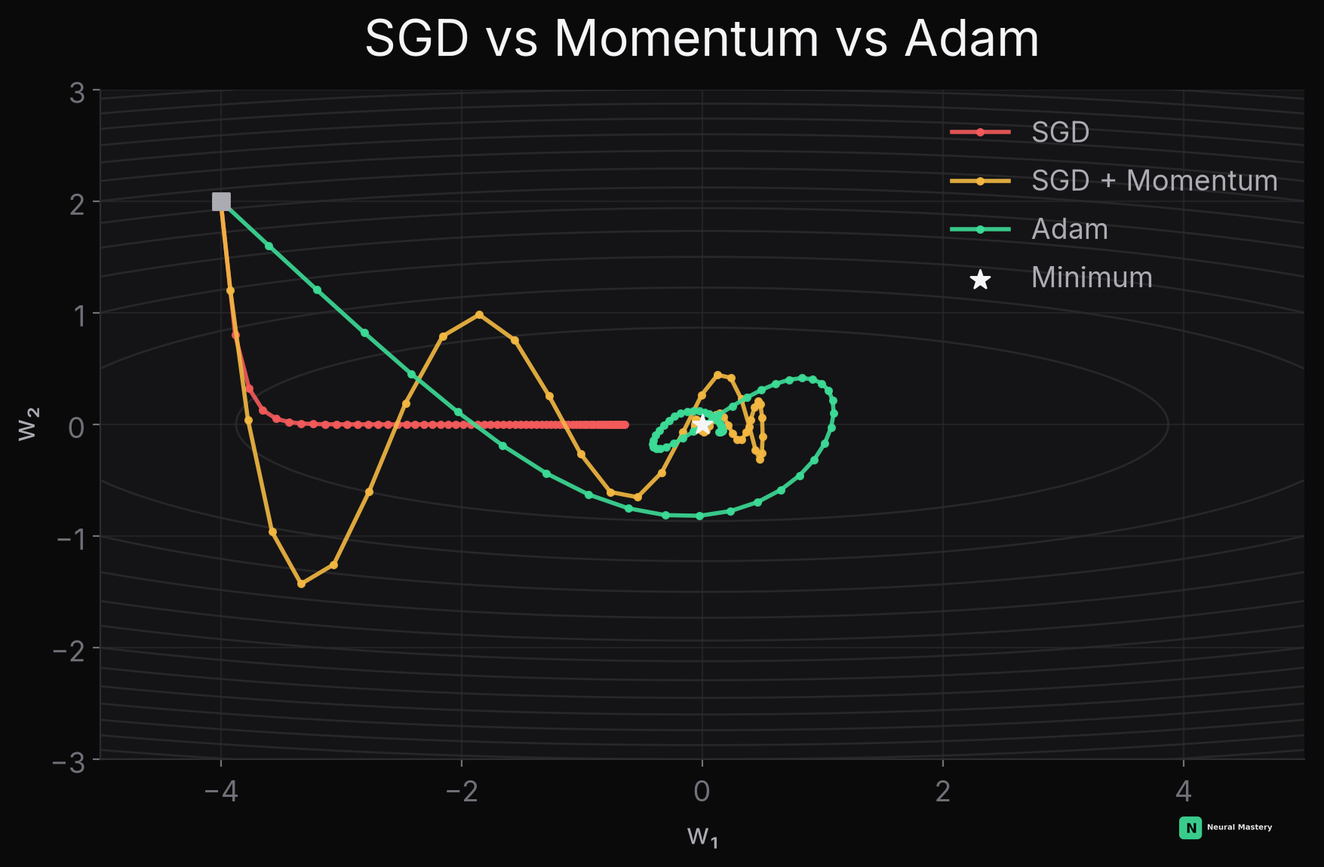
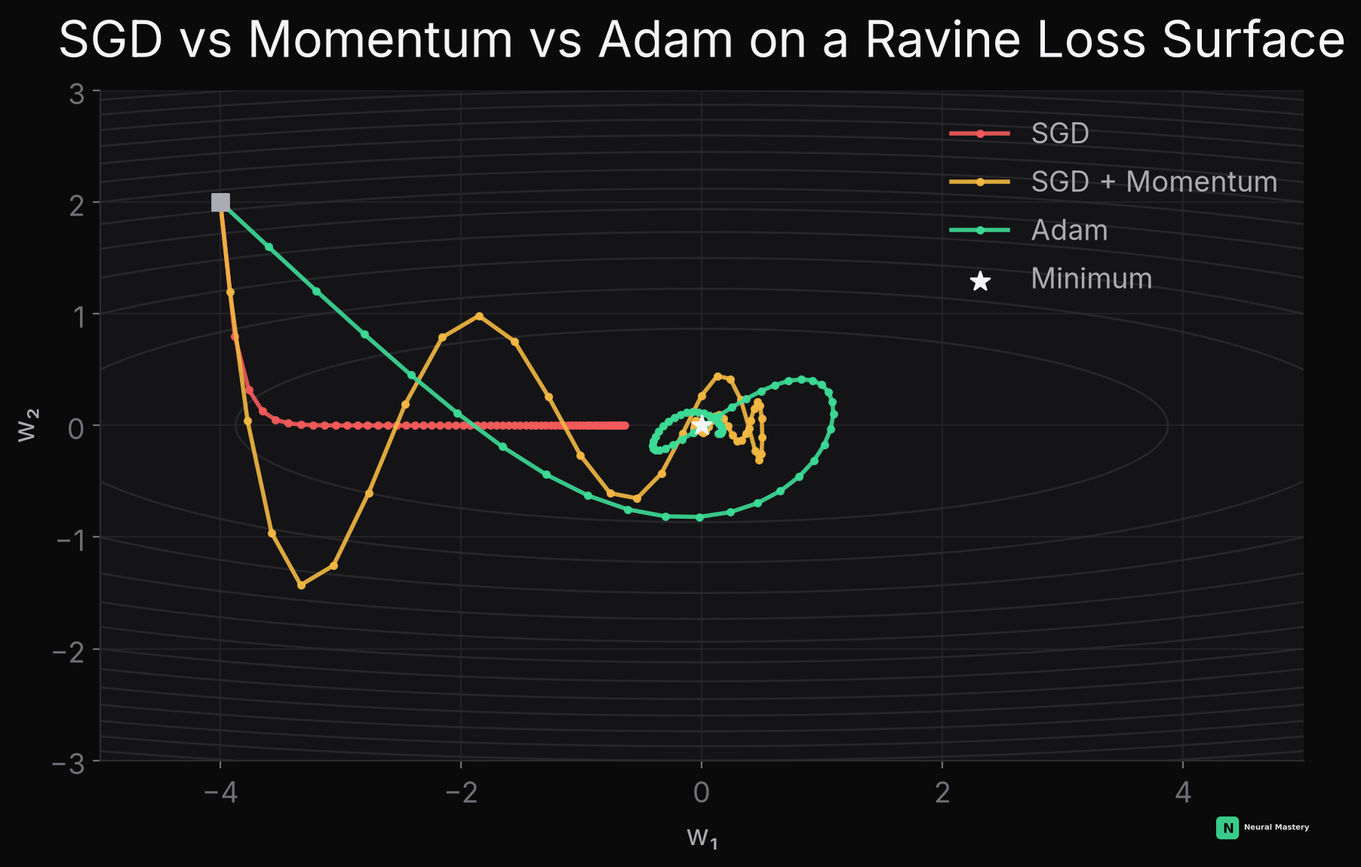
Add tree-based model family: Decision Trees through XGBoost/LightGBM/CatBoost
Four deep-dive pages at Linear Regression's depth:
- Decision Trees: Gini/entropy split criteria, the recursive
  partitioning algorithm, and why the decision boundary is a
  staircase (contrasted visually with logistic regression's line)
- Random Forest & Extra Trees: the variance-reduction math behind
  bagging, why feature randomness decorrelates trees, OOB error
- Boosting: AdaBoost's reweighting mechanism and why gradient
  boosting is literally gradient descent in function space
- XGBoost/LightGBM/CatBoost: what actually differs between the three
  production implementations and when to reach for which

Also updates optimizer-trajectories.png with its full (previously
clipped) title.

diff --git a/docs/machine-learning/xgboost-lightgbm-catboost.md b/docs/machine-learning/xgboost-lightgbm-catboost.md
@@ -1,0 +1,54 @@
+---
+sidebar_position: 5.4
+---
+
+# XGBoost, LightGBM & CatBoost, In Full Depth
+
+[Gradient Boosting](./boosting.md) is an algorithm. XGBoost, LightGBM, and CatBoost are three separate, highly-engineered *implementations* of it — each making different systems and algorithmic tradeoffs, and each dominant in different situations. Together, they're the reason gradient boosting is still the strongest off-the-shelf method for tabular data, even in the deep learning era.
+
+## XGBoost (eXtreme Gradient Boosting)
+
+The implementation that made gradient boosting a Kaggle-competition staple. Its core additions beyond [vanilla gradient boosting](./boosting.md#gradient-boosting-the-general-framework):
+
+- **Regularized objective**: adds an explicit penalty on tree complexity directly into the loss being optimized — $\Omega(f) = \gamma T + \frac{1}{2}\lambda\sum w_j^2$, where $T$ is the number of leaves and $w_j$ are leaf output values. This is [L2 regularization](./ridge-regression.md#the-ridge-cost-function) applied to leaf weights, plus a penalty per leaf — controlling overfitting directly in the objective rather than only through hyperparameter limits.
+- **Second-order optimization**: instead of fitting trees to just the gradient (first derivative) of the loss, XGBoost uses a second-order (Newton's method style) approximation — using both the gradient *and* the Hessian (second derivative, see [Calculus & Optimization](../mathematics-for-ai/calculus-optimization.md)) to choose splits and leaf values more precisely, converging in fewer rounds.
+- **Built-in handling of missing values**: learns, per split, which direction (left or right) missing values should default to, rather than requiring imputation beforehand.
+- **Systems engineering**: parallelized split-finding (evaluate candidate splits across features simultaneously), cache-aware memory access, and out-of-core computation for datasets too large for memory — a large fraction of XGBoost's real-world speed advantage is pure engineering, not algorithmic novelty.
+
+## LightGBM (Light Gradient Boosting Machine)
+
+Built for speed and scale, with two specific algorithmic innovations:
+
+- **Leaf-wise (best-first) tree growth**: standard tree growth (including XGBoost's default) is *level-wise* — grow every leaf at the current depth before going deeper. LightGBM instead always splits whichever single leaf would reduce loss the most, regardless of depth — often reaches lower loss with fewer splits, at the cost of trees that can grow unbalanced and overfit more easily on small datasets (mitigated with a `max_depth` cap in practice).
+- **Histogram-based splitting**: instead of considering every unique feature value as a candidate threshold (expensive), bucket continuous features into a fixed number of histogram bins upfront, and only search over bin boundaries — dramatically fewer candidate splits to evaluate, at a small, usually negligible cost in split quality.
+- **GOSS (Gradient-based One-Side Sampling)**: examples with small gradients are already well-fit by the ensemble so far and contribute little new information — GOSS keeps *all* examples with large gradients but only a random sample of small-gradient examples (reweighted to stay unbiased), cutting the effective dataset size per round without a proportional accuracy loss.
+- **EFB (Exclusive Feature Bundling)**: many real-world features (especially one-hot encoded categoricals) are sparse and rarely nonzero simultaneously — LightGBM bundles such mutually-exclusive features together into one, reducing the effective feature count without losing information.
+
+The net effect: LightGBM is typically the fastest of the three on large datasets, especially with many features.
+
+## CatBoost (Categorical Boosting)
+
+Built specifically to handle **categorical features** well, without manual preprocessing:
+
+- **Native categorical handling**: instead of requiring one-hot or manual target encoding beforehand, CatBoost encodes categories using an **ordered target statistic** — computing each category's average target value *only from examples that came before it* in a random permutation of the data, specifically to avoid target leakage (using an example's own label to help encode its own feature, which would leak information and cause overfitting).
+- **Ordered boosting**: applies a similar "only use data that came before, in a random order" principle to the boosting process itself, not just categorical encoding — reduces a subtle overfitting bias present in standard gradient boosting where every tree indirectly sees the same examples' residuals it will later be evaluated on.
+- **Symmetric (oblivious) trees**: every node at the same depth uses the *same* split condition across the whole tree — less flexible than XGBoost/LightGBM's trees, but faster to evaluate at inference time and provides implicit regularization.
+
+CatBoost typically needs the least manual feature engineering of the three, specifically when a dataset has many categorical columns.
+
+## Choosing Between Them
+
+| | XGBoost | LightGBM | CatBoost |
+|---|---|---|---|
+| Best for | General-purpose, well-understood, huge community | Very large datasets, speed-critical | Heavy categorical features, less tuning needed |
+| Tree growth | Level-wise (default) | Leaf-wise | Symmetric/oblivious |
+| Categorical features | Manual encoding needed | Some native support | Best native support |
+| Typical weakness | Slower than LightGBM at scale | Can overfit small datasets (leaf-wise growth) | Slower training than the other two |
+
+**In practice**: all three usually land within a small margin of each other on a given tabular problem after proper tuning — the differences above matter more for *training speed*, *ease of use with a specific data type*, and *robustness to less tuning*, than for a large gap in best-achievable accuracy. Trying more than one and comparing on your actual validation set (see [Model Evaluation & Metrics](./model-evaluation-metrics.md)) is standard practice, not a sign that you picked wrong the first time.
+
+## When Gradient Boosting Beats Deep Learning
+
+For **tabular data specifically** (rows and columns of heterogeneous features — not images, text, or audio), gradient-boosted trees still routinely match or beat deep neural networks, for a few structural reasons: trees naturally handle mixed feature types and missing values without preprocessing, don't need large amounts of data to avoid overfitting the way deep nets do, and don't require the architecture search that gets neural nets their edge on unstructured data (see [Deep Learning](../deep-learning/roadmap.md)). This is precisely why XGBoost/LightGBM/CatBoost remain the default first choice for tabular ML problems, even as deep learning dominates vision, language, and audio.
+
+This completes the tree-based model family: [Decision Tree](./decision-tree.md) → [Random Forest & Extra Trees](./random-forest.md) → [Boosting](./boosting.md) → XGBoost/LightGBM/CatBoost. Next: [Support Vector Machines](./supervised-learning.md#support-vector-machines) and the other margin-based and instance-based classifiers.

diff --git a/docs/machine-learning/boosting.md b/docs/machine-learning/boosting.md
@@ -1,0 +1,81 @@
+---
+sidebar_position: 5.3
+---
+
+# Boosting: AdaBoost & Gradient Boosting, In Full Depth
+
+[Random Forest](./random-forest.md) builds many trees **independently and in parallel**, then averages them to reduce variance. Boosting builds trees **sequentially**, where each new tree is trained specifically to fix the previous ensemble's mistakes — trading Random Forest's variance-reduction strategy for a bias-reduction strategy.
+
+## Bagging vs. Boosting, Precisely
+
+- **Bagging** (Random Forest): parallel, independent trees on resampled data, averaged. Reduces **variance**. Individual trees are usually grown deep (low bias, high variance) since averaging handles the variance.
+- **Boosting**: sequential trees, each correcting the ensemble-so-far's errors. Reduces **bias**. Individual trees are usually shallow — "weak learners," often just a few splits deep — since the sequential correction process handles building up accuracy over many rounds.
+
+## AdaBoost (Adaptive Boosting)
+
+The original boosting algorithm. The core mechanism: **reweight the training examples** after each round, increasing the weight of examples the ensemble-so-far got wrong, so the *next* weak learner is forced to focus on exactly those hard cases.
+
+1. Start with equal weight on every training example: $w_i = 1/n$.
+2. Train a weak learner (commonly a "stump" — a decision tree of depth 1) on the weighted data.
+3. Compute the weak learner's weighted error rate $\epsilon$, and its voting weight $\alpha = \frac{1}{2}\ln\left(\frac{1-\epsilon}{\epsilon}\right)$ — a learner that does better than random gets a positive $\alpha$ (more say in the final vote); a learner near 50% error gets $\alpha \approx 0$ (barely counted).
+4. Update example weights: increase weight on misclassified examples by a factor of $e^{\alpha}$, decrease correctly-classified examples' weight by $e^{-\alpha}$, then renormalize so weights sum to 1.
+5. Repeat for $T$ rounds. Final prediction: a weighted vote, $\text{sign}\left(\sum_t \alpha_t h_t(x)\right)$, across all $T$ weak learners.
+
+**The intuition, directly from the weight update**: examples the ensemble keeps getting wrong accumulate more and more weight round after round, until some weak learner is forced to get them right just to achieve reasonable weighted error — the ensemble's "attention" is adaptively redirected toward its own current weaknesses.
+
+## Gradient Boosting: The General Framework
+
+AdaBoost reweights examples. **Gradient Boosting** generalizes the same "sequentially correct mistakes" idea to work with *any* differentiable loss function (see [Loss Functions](../deep-learning/loss-functions.md)), by fitting each new tree to the **residual gradient** of the loss, not to reweighted labels.
+
+For squared error specifically (regression), the algorithm becomes remarkably intuitive:
+
+1. Start with a constant prediction $F_0(x) = \bar{y}$ (the mean target).
+2. Compute the **residuals**: $r_i = y_i - F_{t-1}(x_i)$ — exactly the [residuals from Linear Regression](./linear-regression.md#8-assumptions-behind-linear-regression), just computed against the current ensemble instead of a single linear fit.
+3. Train a new (shallow) tree to predict these residuals directly.
+4. Update the ensemble: $F_t(x) = F_{t-1}(x) + \eta \cdot h_t(x)$, where $\eta$ is a small learning rate (shrinking each tree's contribution — see [Calculus & Optimization](../mathematics-for-ai/calculus-optimization.md#gradient-descent-and-its-variants)) and $h_t$ is the newly trained tree.
+5. Repeat for $T$ rounds.
+
+**Why "gradient" boosting specifically**: for squared-error loss, the residual $y_i - F_{t-1}(x_i)$ is *exactly* the negative gradient of $\frac{1}{2}(y_i - F(x_i))^2$ with respect to $F(x_i)$. Fitting a tree to residuals is, precisely, taking a gradient descent step in **function space** — instead of updating a fixed set of weights $\mathbf{w}$ (as in [Linear Regression](./linear-regression.md#6-gradient-descent)), each round adds an entire new function (tree) that points the whole ensemble further downhill on the loss surface. For other losses (log-loss for classification, etc.), the "residual" generalizes to that loss's actual negative gradient rather than literally $y - \hat{y}$.
+
+## Key Hyperparameters
+
+- **Number of trees ($T$)**: too few underfits; too many starts overfitting (unlike Random Forest, boosting *can* overfit by adding more trees, since each one is chasing the training set's remaining errors specifically).
+- **Learning rate ($\eta$)**: smaller values need more trees but generalize better — the classic tradeoff, directly analogous to [gradient descent's learning rate](../mathematics-for-ai/calculus-optimization.md#gradient-descent-and-its-variants).
+- **Tree depth**: kept shallow (often depth 3-8) — deep trees per round tend to overfit fast in a sequential, error-correcting setup.
+
+## AdaBoost vs. Gradient Boosting
+
+| | AdaBoost | Gradient Boosting |
+|---|---|---|
+| Corrects mistakes via | Reweighting examples | Fitting to the loss gradient (residuals) |
+| Loss function | Exponential loss (implicitly) | Any differentiable loss — flexible |
+| Weak learner | Usually depth-1 stumps | Usually shallow trees (depth 3-8) |
+| Sensitive to outliers | Very (outliers get reweighted up repeatedly) | Less, depending on loss choice (e.g. Huber — see [Loss Functions](../deep-learning/loss-functions.md#regression-losses)) |
+
+Gradient Boosting's flexibility and generally stronger empirical performance are why it — not AdaBoost — became the basis for the modern, dominant implementations: [XGBoost, LightGBM & CatBoost](./xgboost-lightgbm-catboost.md).
+
+## Minimal Implementation
+
+Gradient boosting for regression, matching the algorithm above exactly:
+
+```python
+import numpy as np
+
+def fit_gradient_boosting(X, y, tree_fit_fn, n_trees=100, lr=0.1):
+    F = np.full(len(y), y.mean())  # F_0: constant prediction
+    trees = []
+    for _ in range(n_trees):
+        residuals = y - F              # negative gradient of squared error
+        tree = tree_fit_fn(X, residuals)  # fit a shallow tree to residuals
+        F = F + lr * tree.predict(X)
+        trees.append(tree)
+    return trees, y.mean()
+
+def predict_gradient_boosting(X, trees, base, lr=0.1):
+    F = np.full(X.shape[0], base)
+    for tree in trees:
+        F += lr * tree.predict(X)
+    return F
+```
+
+Next: [XGBoost, LightGBM & CatBoost](./xgboost-lightgbm-catboost.md) — the production-grade, highly optimized implementations of this exact algorithm that dominate tabular ML today.

diff --git a/docs/machine-learning/decision-tree.md b/docs/machine-learning/decision-tree.md
@@ -1,0 +1,90 @@
+---
+sidebar_position: 5.1
+---
+
+# Decision Trees, In Full Depth
+
+Every model covered so far — [Linear](./linear-regression.md), [Ridge/Lasso](./ridge-regression.md), [Logistic Regression](./logistic-regression.md) — draws a straight (or smoothly curved) boundary through feature space. A decision tree draws something completely different: a sequence of yes/no questions, splitting the data into rectangular regions.
+
+## What Is a Decision Tree?
+
+A tree is a nested set of if/else rules learned directly from data, ending in a prediction:
+
+![A depth-2 decision tree asking sequential yes/no questions](./img/tree-structure.png)
+
+Each internal node asks a single-feature question ("Hours Studied > 5?"), each branch is an answer, and each leaf is a prediction. To predict for a new example, walk down from the root, answering each question, until reaching a leaf.
+
+## Why the Boundary Looks Like a Staircase
+
+Because every split tests exactly one feature against a threshold, the resulting decision regions are always **axis-aligned rectangles** — never diagonal, never curved:
+
+![Decision tree decision regions — an axis-aligned staircase boundary, contrasted with logistic regression's single straight line](./img/tree-decision-regions.png)
+
+Compare this directly to [Logistic Regression's single straight boundary](./logistic-regression.md#the-decision-boundary). A tree can carve out *any* shape given enough splits (it's far more flexible), but that flexibility is exactly why trees overfit so easily — a deep enough tree can wall off every individual training point into its own tiny region, memorizing noise rather than learning a real pattern.
+
+## How a Split Is Chosen
+
+At each node, the tree tries every feature and every possible threshold, and picks whichever split makes the resulting two groups **most pure** — as unmixed in class labels as possible.
+
+**Gini Impurity** (classification): $G = 1 - \sum_{c} p_c^2$, where $p_c$ is the fraction of examples in class $c$ at that node. $G=0$ means perfectly pure (one class only); $G$ is maximized when classes are evenly mixed. A split is scored by the *weighted average* Gini of its two resulting children — lower is better.
+
+**Entropy / Information Gain** (the alternative criterion): $H = -\sum_c p_c \log_2 p_c$ — the same [entropy](../mathematics-for-ai/probability-statistics.md#entropy-cross-entropy-and-kl-divergence) used throughout information theory. **Information gain** is the reduction in entropy from parent to children: $IG = H(\text{parent}) - \sum_{\text{child}} \frac{n_{\text{child}}}{n_{\text{parent}}} H(\text{child})$. Gini and entropy nearly always pick similar splits in practice; Gini is slightly cheaper to compute (no logarithm) and is the more common default.
+
+**For regression**, the criterion switches to variance reduction — minimize the weighted average of each child's variance (equivalently, MSE — see [Linear Regression](./linear-regression.md#2-the-cost-function-mean-squared-error)), since there's no "class" to measure impurity over.
+
+## The Full Algorithm (Recursive Partitioning)
+
+1. At the current node, try every (feature, threshold) pair; compute the impurity reduction each split would give.
+2. Pick the split with the best (largest) impurity reduction.
+3. Partition the data into the two children accordingly.
+4. Recurse on each child, until a stopping condition: max depth reached, a node is already pure, or too few examples remain to split further.
+5. Each final leaf predicts the majority class (classification) or the mean target value (regression) of the training examples that landed there.
+
+This greedy, one-split-at-a-time process is why trees train fast — there's no gradient descent, no iterative optimization loop, just repeated exhaustive search over a shrinking dataset.
+
+## Controlling Overfitting
+
+An unconstrained tree will grow until every leaf is perfectly pure — which usually means memorizing the training set. The standard controls:
+
+- **Max depth**: hard cap on how many questions deep the tree can go.
+- **Min samples per leaf / per split**: refuse to split a node with too few examples, or produce a leaf with too few.
+- **Min impurity decrease**: refuse a split that doesn't improve purity by at least some threshold.
+- **Pruning**: grow the full tree first, then remove branches that don't improve validation performance (see [ML Workflow Fundamentals](./ml-workflow-fundamentals.md#train--validation--test-splits)) — a post-hoc alternative to constraining growth upfront.
+
+A single, well-pruned tree is rarely the strongest model on its own — its real value, as the next page covers, is as the *building block* inside ensembles like [Random Forest](./random-forest.md) and [Gradient Boosting](./boosting.md).
+
+## Strengths and Weaknesses
+
+- **Interpretable**: you can print the tree and read the exact decision logic — hard to match with any other model class.
+- **No feature scaling needed**: splits only compare a feature to a threshold, so scale/units don't matter (unlike [Linear Regression](./linear-regression.md) or [KNN](./supervised-learning.md#k-nearest-neighbors)).
+- **Handles nonlinear relationships and feature interactions** natively, unlike plain linear/logistic regression.
+- **High variance**: small changes in training data can produce a completely different tree structure — this instability is exactly what ensembling (next page) fixes.
+- **Biased toward features with more possible split points** (e.g. continuous features over binary ones) unless explicitly corrected.
+
+## Minimal Implementation
+
+A single split decision, implementing the Gini criterion directly:
+
+```python
+import numpy as np
+
+def gini(y):
+    p = np.bincount(y) / len(y)
+    return 1 - np.sum(p ** 2)
+
+def best_split(X, y):
+    best_feat, best_thresh, best_score = None, None, np.inf
+    n_features = X.shape[1]
+    for feat in range(n_features):
+        for thresh in np.unique(X[:, feat]):
+            left = y[X[:, feat] <= thresh]
+            right = y[X[:, feat] > thresh]
+            if len(left) == 0 or len(right) == 0:
+                continue
+            weighted_gini = (len(left) * gini(left) + len(right) * gini(right)) / len(y)
+            if weighted_gini < best_score:
+                best_feat, best_thresh, best_score = feat, thresh, weighted_gini
+    return best_feat, best_thresh
+```
+
+Next: [Random Forest & Extra Trees](./random-forest.md) — averaging many trees together to fix the single-tree instability problem above.

diff --git a/docs/machine-learning/random-forest.md b/docs/machine-learning/random-forest.md
@@ -1,0 +1,74 @@
+---
+sidebar_position: 5.2
+---
+
+# Random Forest & Extra Trees, In Full Depth
+
+[Decision Trees](./decision-tree.md) are high-variance: retrain on a slightly different sample and the tree structure can change completely. Random Forest fixes this with an idea that seems almost too simple to work: train many trees on randomized versions of the data, and average their predictions.
+
+## The Core Idea: Bagging
+
+**Bagging** (Bootstrap AGGregatING): train $B$ independent trees, each on a **bootstrap sample** — a sample of size $n$ drawn *with replacement* from the original $n$ training examples (so each bootstrap sample contains duplicates and omits roughly a third of the original data on average). Average the predictions (regression) or take a majority vote (classification) across all $B$ trees.
+
+**Why averaging reduces variance — the actual math**: if each tree's prediction has variance $\sigma^2$ and the trees were *perfectly independent*, averaging $B$ of them gives variance $\sigma^2/B$ — variance shrinks directly with more trees. Trees aren't fully independent in practice (they're trained on overlapping, correlated data), so the real reduction is smaller than $1/B$, but the effect is still large and is the entire justification for the method. This is the same bias-variance logic from [Model Evaluation & Metrics](./model-evaluation-metrics.md#bias-variance-tradeoff): individual deep trees have low bias but high variance; averaging trades a small amount of bias for a large reduction in variance.
+
+## Random Forest's Extra Ingredient: Feature Randomness
+
+Bagging alone isn't enough — if one feature is very strong, *every* bootstrap-sampled tree will likely pick it for the first split, making the trees highly correlated with each other (and correlated trees don't reduce variance nearly as much when averaged, per the math above).
+
+**Random Forest's fix**: at *each split*, restrict the tree to a random subset of features (commonly $\sqrt{d}$ features out of $d$ total, for classification) rather than considering all of them. This deliberately handicaps each individual tree, forcing different trees to discover different, less-correlated splitting patterns — which is precisely what makes the ensemble average more powerful than any single tree in it.
+
+## Extra Trees: One More Layer of Randomness
+
+**Extremely Randomized Trees (Extra Trees)** push the idea further: instead of searching for the *optimal* threshold for each candidate feature (as in a standard tree, see [Decision Tree — How a Split Is Chosen](./decision-tree.md#how-a-split-is-chosen)), pick the threshold **randomly** and just choose the best among those random candidates. Also typically skips bootstrap sampling, training each tree on the full dataset instead.
+
+- **More randomness → more bias, less variance** than Random Forest — individual trees are worse, but the ensemble can be competitive or better, and training is faster (no per-split optimal-threshold search).
+- **Practical rule of thumb**: try Random Forest first; reach for Extra Trees specifically when training speed matters or when Random Forest is visibly overfitting even with feature randomness.
+
+## Out-of-Bag (OOB) Error: Free Validation
+
+Since each bootstrap sample leaves out roughly 37% of the data ($\left(1-\frac{1}{n}\right)^n \to e^{-1} \approx 0.368$ as $n\to\infty$ — see [Probability & Statistics](../mathematics-for-ai/probability-statistics.md)), each tree has a natural, unused validation set: the examples it never saw. Averaging each example's prediction across only the trees that *didn't* train on it gives an honest performance estimate — **without needing a separate held-out validation set** (see [ML Workflow Fundamentals](./ml-workflow-fundamentals.md#train--validation--test-splits)). This is close to free — it falls directly out of the bagging procedure already being run.
+
+## Feature Importance
+
+Random Forests provide a natural feature importance score: sum up the impurity reduction (see [Decision Tree — Gini](./decision-tree.md#how-a-split-is-chosen)) every time a feature is used to split, across every tree, and normalize. Features that consistently produce strong, high-impurity-reduction splits across many trees score higher — a practical, if imperfect, tool for understanding which inputs actually drive predictions (imperfect because it's biased toward high-cardinality/continuous features, similar to the single-tree bias noted in [Decision Tree — Strengths and Weaknesses](./decision-tree.md#strengths-and-weaknesses)).
+
+## Random Forest vs. a Single Tree
+
+| | Single Decision Tree | Random Forest |
+|---|---|---|
+| Variance | High | Much lower (averaging) |
+| Bias | Low (if deep) | Slightly higher |
+| Interpretability | High — can read the exact rules | Low — hundreds of trees, no single readable logic |
+| Training cost | Cheap | $B\times$ a single tree (parallelizable) |
+| Overfitting risk | High if unconstrained | Much lower |
+
+## Minimal Implementation
+
+```python
+import numpy as np
+
+class SimpleRandomForest:
+    def __init__(self, n_trees=100, max_features="sqrt"):
+        self.n_trees = n_trees
+        self.max_features = max_features
+        self.trees = []
+
+    def fit(self, X, y, tree_fit_fn):
+        n, d = X.shape
+        k = int(np.sqrt(d)) if self.max_features == "sqrt" else d
+        for _ in range(self.n_trees):
+            # Bootstrap sample
+            idx = np.random.choice(n, size=n, replace=True)
+            X_boot, y_boot = X[idx], y[idx]
+            # Random feature subset considered at each split is handled
+            # inside tree_fit_fn; k is passed through for that purpose.
+            tree = tree_fit_fn(X_boot, y_boot, max_features=k)
+            self.trees.append(tree)
+
+    def predict(self, X, tree_predict_fn):
+        preds = np.array([tree_predict_fn(tree, X) for tree in self.trees])
+        return np.round(preds.mean(axis=0))  # majority vote via mean+round for binary labels
+```
+
+Next: [Boosting: AdaBoost & Gradient Boosting](./boosting.md) — building an ensemble sequentially instead of in parallel, where each new tree specifically targets the previous ensemble's mistakes.

diff --git a/docs/machine-learning/supervised-learning.md b/docs/machine-learning/supervised-learning.md
@@ -16,11 +16,13 @@ The workhorse of classical ML: learn a mapping from inputs to known outputs, the
 
 ## Tree-Based Methods
 
-**Decision trees** split the feature space recursively (e.g. "is age > 30?") to separate classes/values. Easy to interpret, but prone to overfitting if grown too deep.
+**Decision trees** split the feature space recursively (e.g. "is age > 30?") to separate classes/values, producing axis-aligned rectangular decision regions. Easy to interpret, but prone to overfitting if grown too deep. See [Decision Trees, In Full Depth](./decision-tree.md) for the Gini/entropy split criteria, the full recursive algorithm, and why the boundary looks like a staircase.
 
-**Random Forests**: train many decision trees on bootstrapped samples of the data and random subsets of features, then average their predictions (**bagging**). Reduces variance dramatically compared to a single tree.
+**Random Forests** and **Extra Trees**: train many decision trees on bootstrapped samples of the data and random subsets of features, then average their predictions (**bagging**). Reduces variance dramatically compared to a single tree. See [Random Forest & Extra Trees](./random-forest.md) for the bias-variance math behind why averaging works, out-of-bag error, and feature importance.
 
-**Gradient Boosting (XGBoost, LightGBM)**: build trees *sequentially*, where each new tree corrects the errors of the ensemble so far. Almost always the strongest off-the-shelf method for structured/tabular data — dominant on Kaggle-style competitions and widely used in industry for exactly that reason.
+**AdaBoost and Gradient Boosting**: build trees *sequentially*, where each new tree corrects the errors of the ensemble so far — trading Random Forest's variance-reduction for bias-reduction. See [Boosting](./boosting.md) for the full derivation, including why gradient boosting is literally gradient descent in function space.
+
+**XGBoost, LightGBM, CatBoost**: the production-grade gradient boosting implementations that dominate tabular ML and Kaggle-style competitions. Almost always the strongest off-the-shelf method for structured/tabular data. See [XGBoost, LightGBM & CatBoost](./xgboost-lightgbm-catboost.md) for what actually differs between them (regularization, leaf-wise growth, categorical handling) and when to reach for which.
 
 **Bagging vs. Boosting**: bagging trains models independently in parallel to reduce variance; boosting trains models sequentially, each focused on the previous ensemble's mistakes, to reduce bias. Stacking goes further — training a "meta-model" to combine the outputs of several different base models.
 
